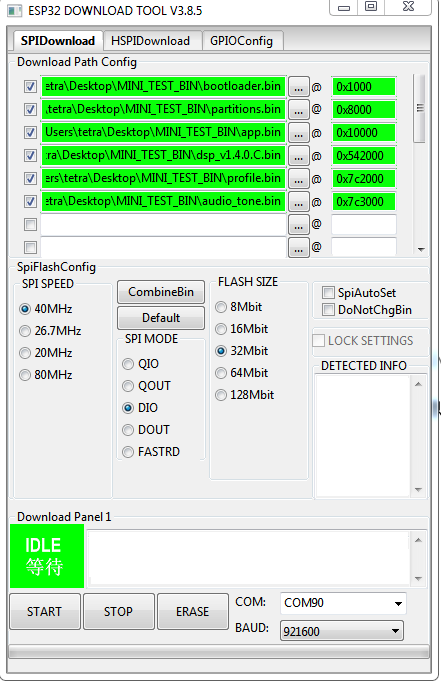
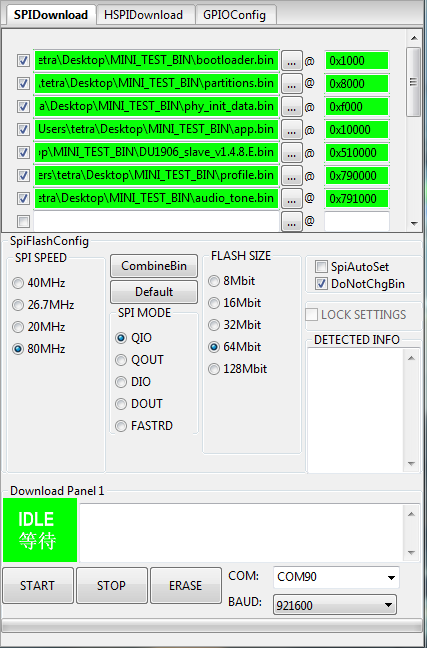
update 1906 readme, add phy init bin file

diff --git a/examples/korvo_du1906/README.md b/examples/korvo_du1906/README.md
@@ -40,6 +40,7 @@ Flash address | Bin Path
 ---|---
 0x1000 | bootloader.bin
 0x8000 | partitions.bin
+0xf000 | phy_init_data.bin
 0x10000 | app.bin
 0x510000 | DU1906_slave_v1.4.8.E.bin
 0x790000 | profile.bin
@@ -57,6 +58,7 @@ python $ADF_PATH/esp-idf/components/esptool_py/esptool/esptool.py --chip esp32 \
 --after hard_reset write_flash -z --flash_mode dio --flash_freq 80m --flash_size detect \
 0x1000   ./firmware/bootloader.bin \
 0x8000   ./firmware/partitions.bin \
+0xf000   ./firmware/phy_init_data.bin \
 0x10000  ./firmware/app.bin \
 0x510000 ./firmware/DU1906_slave_v1.4.8.E.bin \
 0x790000 ./profiles/profile.bin \
@@ -585,4 +587,121 @@ I (6112) HTTP_TASK: 57 bytes read
 I (6117) AUTH_TASK: recv body: {"error_code":1,"err_msg":"fc:xx, pk:xx not registered."}
 E (6118) AUTH_TASK: auth failed, retry!
 ==> generate_auth_pam
+```
+
+### Missing `phy_init_data.bin`
+
+```c
+I (64) boot: Chip Revision: 3
+I (35) boot: ESP-IDF v3.3.1-203-g0c1859a5a 2nd stage bootloader
+I (35) boot: compile time 21:43:15
+I (35) boot: Enabling RNG early entropy source...
+I (41) qio_mode: Enabling default flash chip QIO
+I (46) boot: SPI Speed      : 80MHz
+I (50) boot: SPI Mode       : QIO
+I (54) boot: SPI Flash Size : 8MB
+I (58) boot: Partition Table:
+I (62) boot: ## Label            Usage          Type ST Offset   Length
+I (69) boot:  0 nvs              WiFi data        01 02 00009000 00004000
+I (76) boot:  1 otadata          OTA data         01 00 0000d000 00002000
+I (84) boot:  2 phy_init         RF data          01 01 0000f000 00001000
+I (91) boot:  3 ota_0            OTA app          00 10 00010000 00280000
+I (99) boot:  4 ota_1            OTA app          00 11 00290000 00280000
+I (106) boot:  5 dsp_bin          Unknown data     01 24 00510000 00280000
+I (114) boot:  6 profile          Unknown data     01 29 00790000 00001000
+I (121) boot:  7 flash_tone       Unknown data     01 27 00791000 00060000
+I (129) boot: End of partition table
+I (133) esp_image: segment 0: paddr=0x00010020 vaddr=0x3f400020 size=0xaabbc (699324) map
+I (318) esp_image: segment 1: paddr=0x000babe4 vaddr=0x3ffbdb60 size=0x0542c ( 21548) load
+I (325) esp_image: segment 2: paddr=0x000c0018 vaddr=0x400d0018 size=0x1aaf90 (1748880) map
+0x400d0018: _stext at ??:?
+
+I (765) esp_image: segment 3: paddr=0x0026afb0 vaddr=0x3ffc2f8c size=0x012c8 (  4808) load
+I (767) esp_image: segment 4: paddr=0x0026c280 vaddr=0x40080000 size=0x00400 (  1024) load
+0x40080000: _WindowOverflow4 at /home/donglianghao/esp/esp-adf-dlh/esp-idf/components/freertos/xtensa_vectors.S:1779
+
+I (772) esp_image: segment 5: paddr=0x0026c688 vaddr=0x40080400 size=0x1d064 (118884) load
+I (836) boot: Loaded app from partition at offset 0x10000
+I (836) boot: Disabling RNG early entropy source...
+I (836) psram: This chip is ESP32-D0WD
+I (841) spiram: Found 64MBit SPI RAM device
+I (845) spiram: SPI RAM mode: flash 80m sram 80m
+I (851) spiram: PSRAM initialized, cache is in low/high (2-core) mode.
+I (858) cpu_start: Pro cpu up.
+I (862) cpu_start: Application information:
+I (866) cpu_start: Project name:     korvo_du1906
+I (872) cpu_start: App version:      v1.2.0
+I (877) cpu_start: ELF file SHA256:  36613ad813caa06e...
+I (883) cpu_start: ESP-IDF:          v3.3.1-203-g0c1859a5a
+I (889) cpu_start: Starting app cpu, entry point is 0x400818dc
+0x400818dc: esp_timer_get_time at /home/donglianghao/esp/esp-adf-dlh/esp-idf/components/esp32/esp_timer.c:508
+
+I (0) cpu_start: App cpu up.
+I (1378) spiram: SPI SRAM memory test OK
+I (1380) heap_init: Initializing. RAM available for dynamic allocation:
+I (1380) heap_init: At 3FFAFF10 len 000000F0 (0 KiB): DRAM
+I (1385) heap_init: At 3FFB6388 len 00001C78 (7 KiB): DRAM
+I (1391) heap_init: At 3FFB9A20 len 00004108 (16 KiB): DRAM
+I (1397) heap_init: At 3FFBDB5C len 00000004 (0 KiB): DRAM
+I (1403) heap_init: At 3FFC7C18 len 000183E8 (96 KiB): DRAM
+I (1409) heap_init: At 3FFE0440 len 00003AE0 (14 KiB): D/IRAM
+I (1416) heap_init: At 3FFE4350 len 0001BCB0 (111 KiB): D/IRAM
+I (1422) heap_init: At 4009D464 len 00002B9C (10 KiB): IRAM
+585021cb 6e9b2a58 054d0131 cdfeb46a daac6607 a765f41b 4947abed 10cb68c3
+45fb9cc7 f7f9e6df 90811a4b edbec097 14ba7699 bb3a44c2 d4cf6eb0 f7aa68f1
+9e2078ea 2eb1c816 302233d7 3c982e6c 85a12eb1 ffeb0c67 e9739697 a1d7c241
+61b5e39f 7e6b701c 7b84d8dd a5f59102 9da2f637 6f7b076c c42f89ff bff955d4
+8ff99e41 8e7acae6 0c29f5b4 b4effe17 7104f46e 7775368a 23859f18 358e205f
+a66ce838 c9497663 eeb0ccd2 f9f3425a d2e3c5c9 9796ca48 4346d69a 799624dd
+d20d4493 8e6f45a3 5de9cf8b f49f982c 2730e83a 98df83a9 732cd3d5 b73f5f80
+2e364c3b aef67184 c5b0d6b1 421a2d3d 74309871 76f1911b 7808f1ed d2ff1118
+I (1479) cpu_start: Pro cpu start user code
+I (1484) spiram: Adding pool of 4060K of external SPI memory to heap allocator
+I (163) esp_core_dump_common: Init core dump to UART
+E (168) esp_core_dump_common: No core dump partition found!
+I (168) cpu_start: Starting scheduler on PRO CPU.
+I (0) cpu_start: Starting scheduler on APP CPU.
+I (179) spiram: Reserving pool of 18K of internal memory for DMA/internal allocations
+I (208) AUDIO_THREAD: The esp_periph task allocate stack on external memory
+E (209) PERIPH_SDCARD: no sdcard detect
+E (2709) AUDIO_BOARD: Sdcard mount failed
+I (2712) wifi: wifi driver task: 3ffd1a08, prio:23, stack:3584, core=0
+I (2712) system_api: Base MAC address is not set, read default base MAC address from BLK0 of EFUSE
+I (2718) system_api: Base MAC address is not set, read default base MAC address from BLK0 of EFUSE
+I (2743) wifi: wifi firmware version: 0df1a2a
+I (2743) wifi: config NVS flash: enabled
+I (2743) wifi: config nano formating: disabled
+I (2744) wifi: Init dynamic tx buffer num: 32
+I (2748) wifi: Init data frame dynamic rx buffer num: 512
+I (2753) wifi: Init management frame dynamic rx buffer num: 512
+I (2759) wifi: Init management short buffer num: 32
+I (2763) wifi: Init static tx buffer num: 16
+I (2768) wifi: Init static rx buffer size: 1600
+I (2772) wifi: Init static rx buffer num: 16
+I (2776) wifi: Init dynamic rx buffer num: 512
+I (2780) wifi: init cache tx buffer number 32
+E (2785) phy_init: failed to validate PHY data partition
+E (2790) phy_init: failed to obtain PHY init data
+abort() was called at PC 0x400d2117 on core 0
+0x400d2117: esp_modem_sleep_deregister at /home/donglianghao/esp/esp-adf-dlh/esp-idf/components/esp32/phy_init.c:570
+
+
+ELF file SHA256: 
+
+Backtrace: 0x40092d4b:0x3ffd1840 0x40092fe1:0x3ffd1860 0x400d2117:0x3ffd1880 0x400dfc1c:0x3ffd18b0 0x400dfd0d:0x3ffd18e0 0x400e000a:0x3ffd1910 0x400dbdd2:0x3ffd1940 0x400f77e5:0x3ffd1960
+0x40092d4b: rtc_clk_cpu_freq_to_pll_mhz at /home/donglianghao/esp/esp-adf-dlh/esp-idf/components/soc/esp32/rtc_clk.c:517
+
+0x40092fe1: rtc_clk_apll_enable at /home/donglianghao/esp/esp-adf-dlh/esp-idf/components/soc/esp32/rtc_clk.c:517
+
+0x400d2117: esp_modem_sleep_deregister at /home/donglianghao/esp/esp-adf-dlh/esp-idf/components/esp32/phy_init.c:570
+
+0x400dfc1c: ieee80211_output_process at ??:?
+
+0x400dfd0d: ieee80211_output_process at ??:?
+
+0x400e000a: ieee80211_output_process at ??:?
+
+0x400dbdd2: wifi_set_config_process at ??:?
+
+0x400f77e5: wpa_remove_ptk at ??:?
 ```
